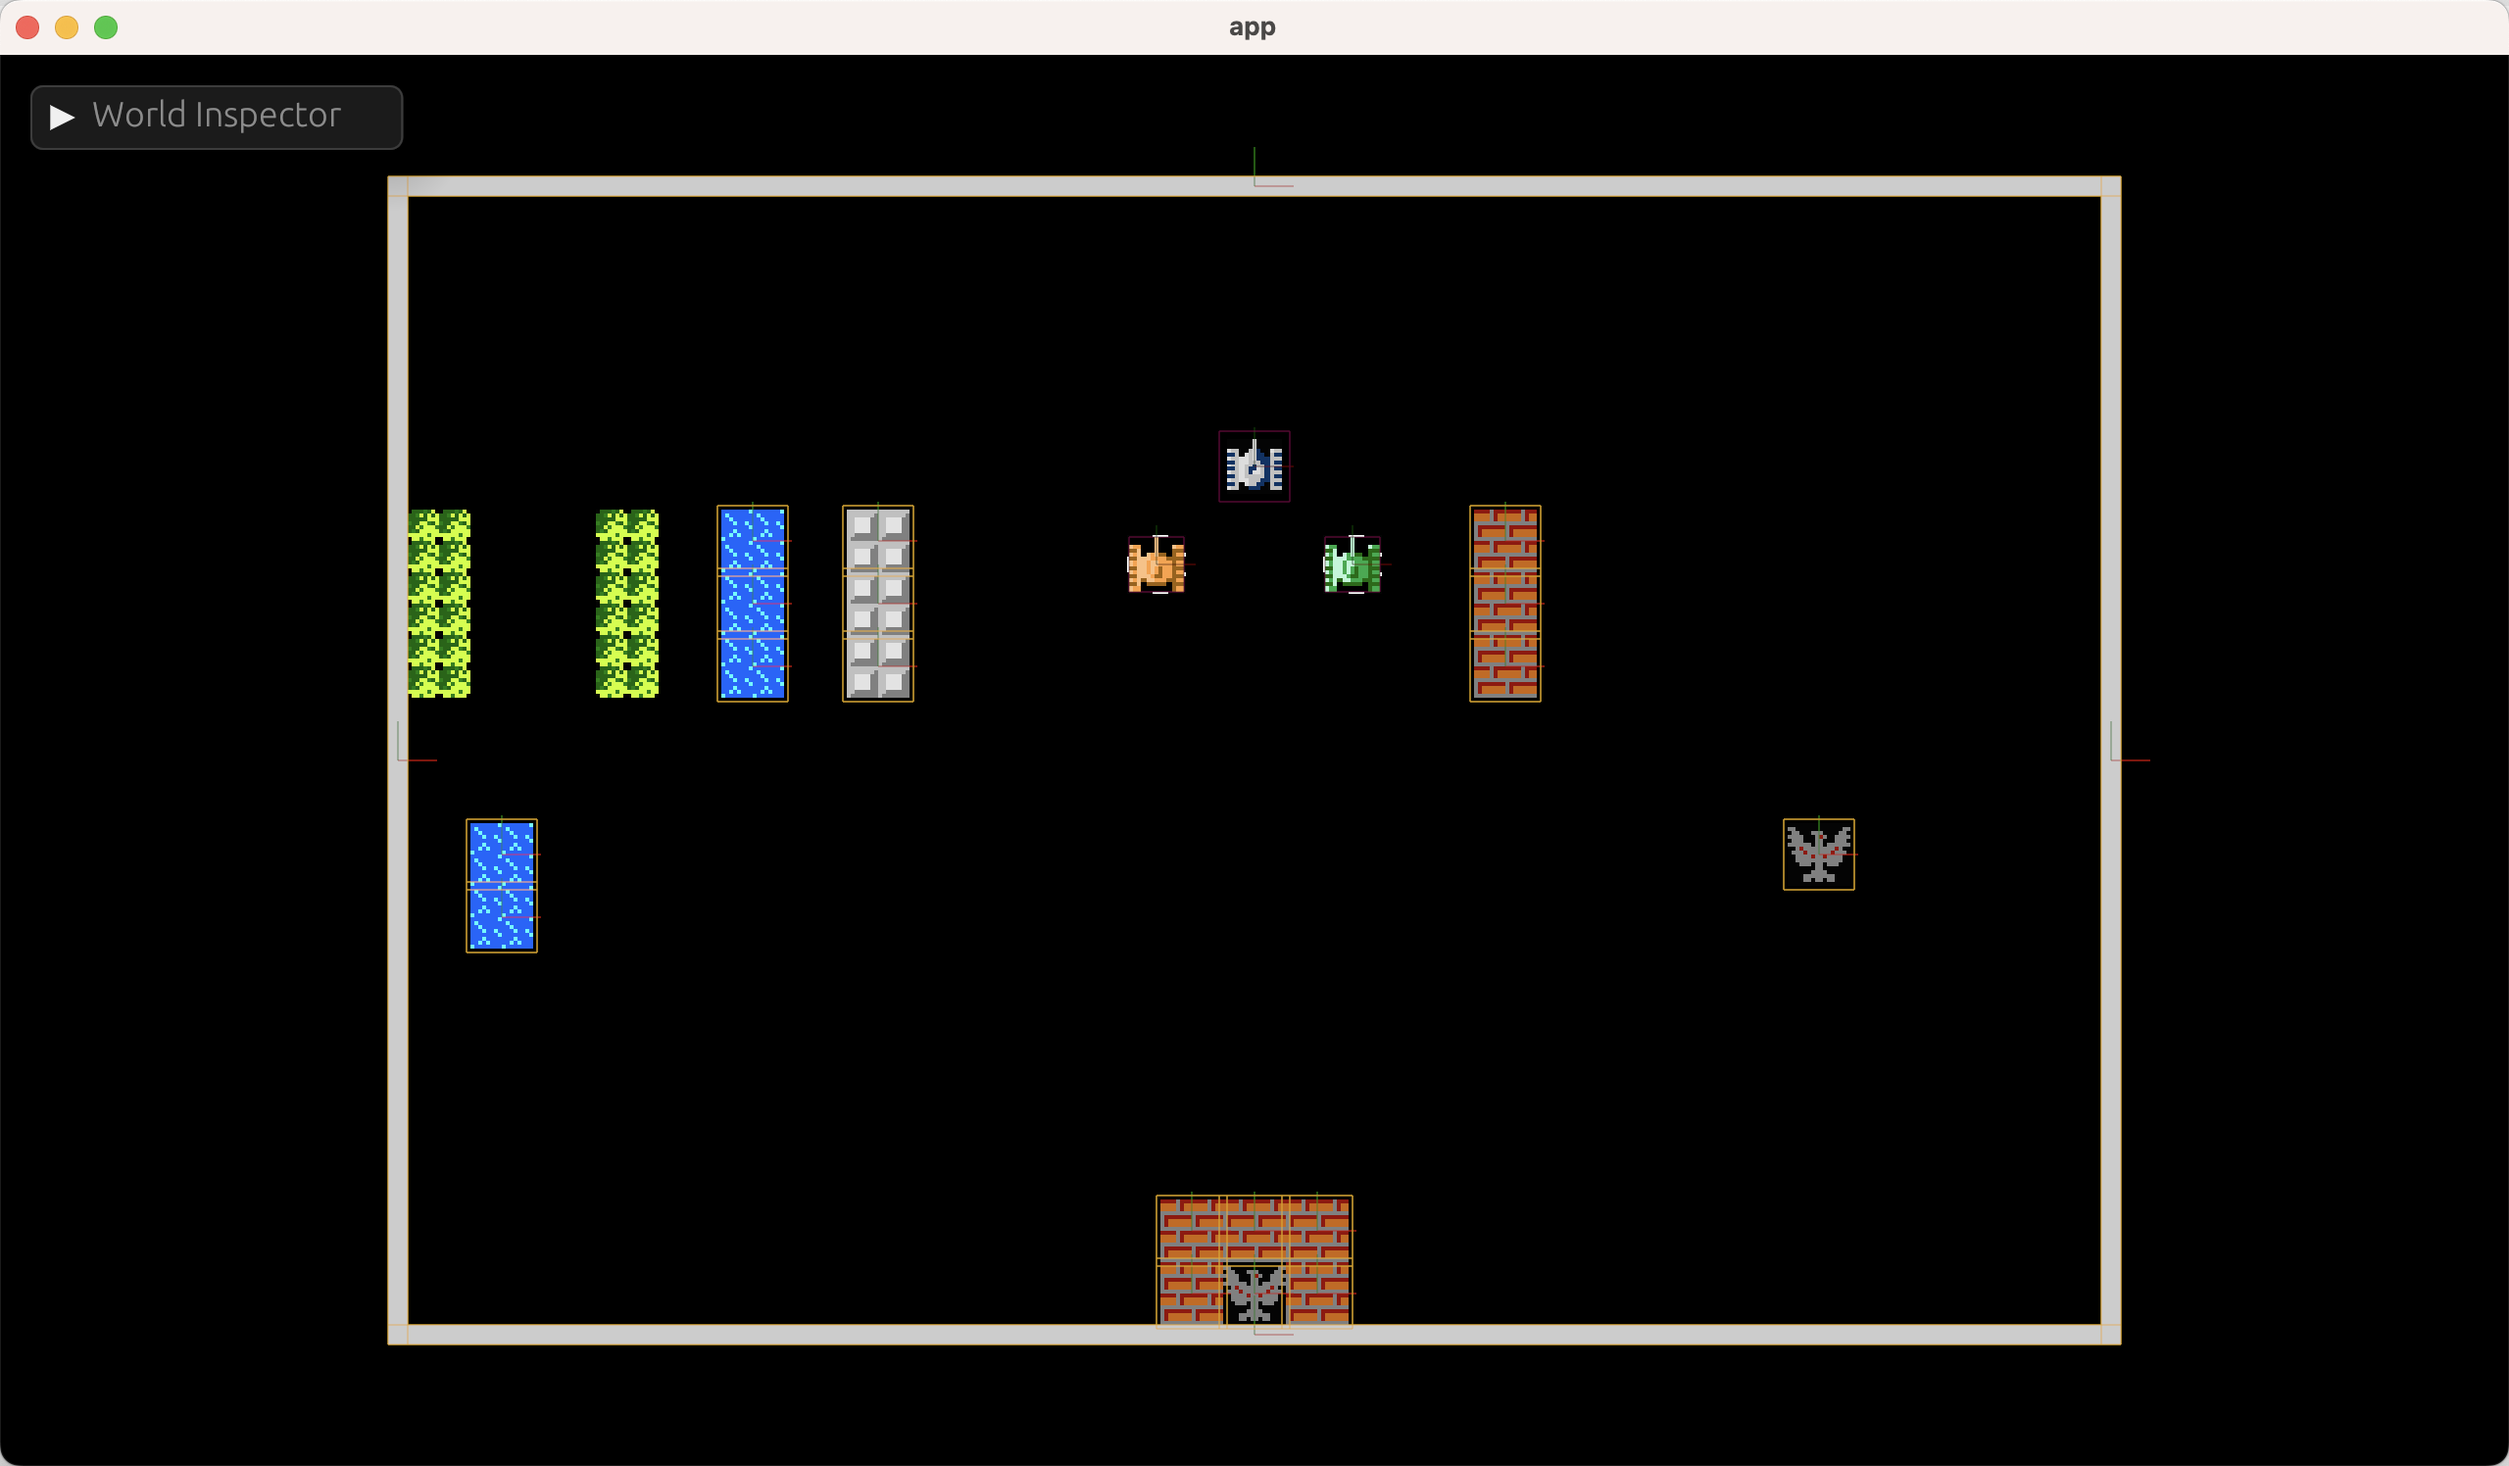
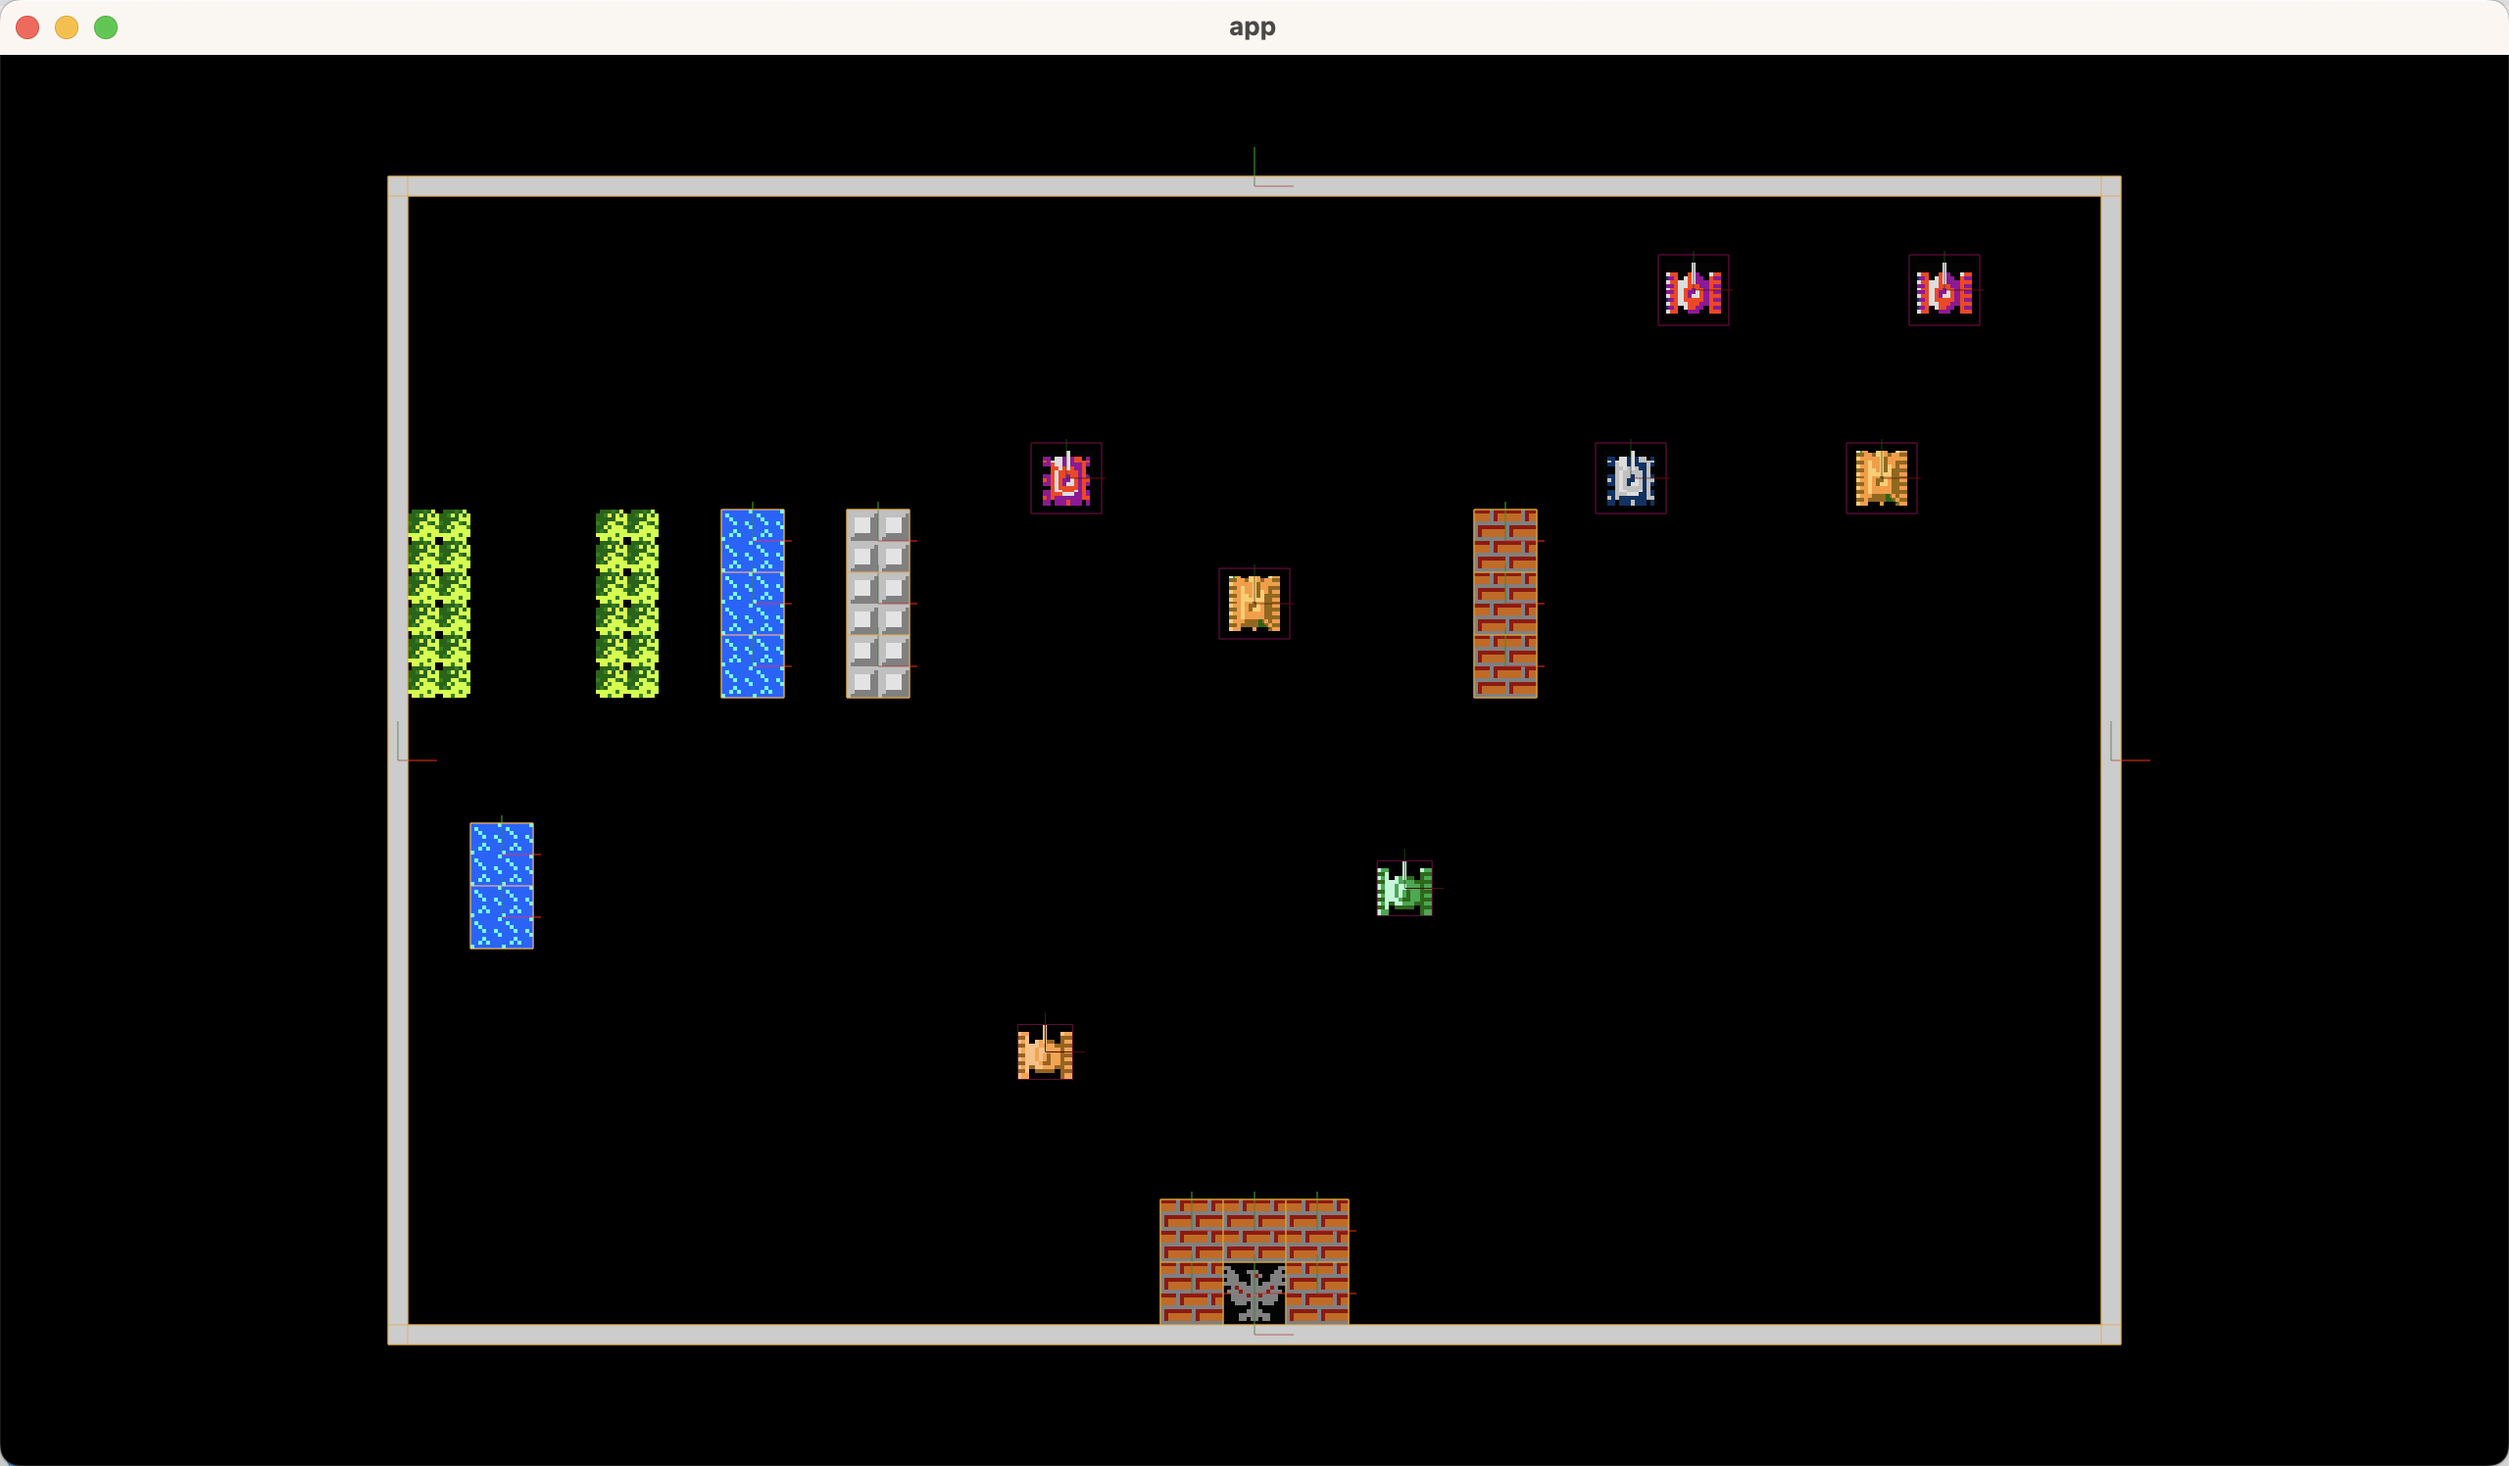
Update screenshots

diff --git a/src/main.rs b/src/main.rs
@@ -28,7 +28,7 @@ fn main() {
         .add_plugin(RapierPhysicsPlugin::<NoUserData>::pixels_per_meter(100.0))
         .add_plugin(RapierDebugRenderPlugin::default())
         .add_plugin(LdtkPlugin)
-        .add_plugin(WorldInspectorPlugin)
+        // .add_plugin(WorldInspectorPlugin)
         .add_event::<ExplosionEvent>()
         .add_event::<SpawnPlayerEvent>()
         .add_event::<HomeDyingEvent>()

diff --git a/README.md b/README.md
@@ -13,6 +13,7 @@
 ## 游戏展示
 ![start_menu](screenshots/start_menu.png)
 ![game_playing](screenshots/game_playing.png)
+![game_over](screenshots/game_over.png)
 
 ## 参考资料
 - [bevy-cheatbook](https://github.com/bevy-cheatbook/bevy-cheatbook)（[中文翻译](https://yiviv.com/bevy-cheatbook/)）
